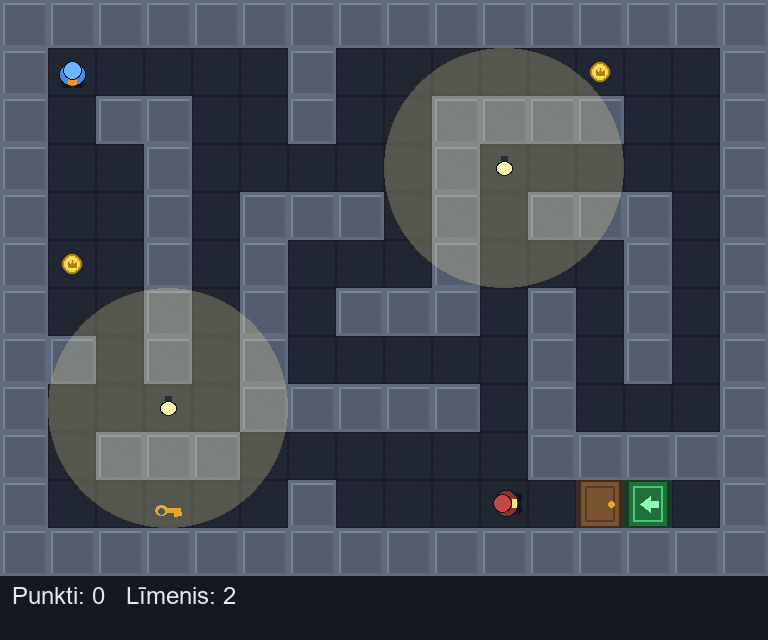
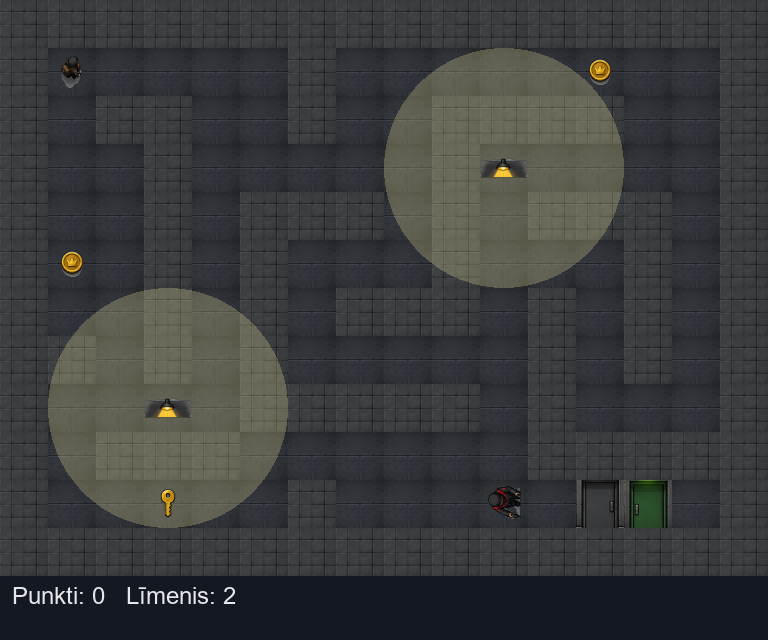
Īstās tekstūras no asset kolāžas: kurjers, sargi, monētas, atslēga, durvis, lampas, flīzes (cut_assets.py)

diff --git a/cut_assets.py b/cut_assets.py
@@ -1,0 +1,111 @@
+"""Izgriež tekstūras no asset kolāžas un saglabā assets/ mapē.
+
+Kolāža = liela bilde ar daudziem sprites uz pelēka fona.
+Skripts atrod katru objektu pēc tā atrašanās vietas (x, y),
+noņem fonu (padara caurspīdīgu) un saglabā atsevišķus PNG.
+
+Palaišana:  python cut_assets.py
+"""
+
+import numpy as np
+from PIL import Image
+from scipy import ndimage
+
+COLLAGE = r"C:\Users\rober\Downloads\Топдаун-ассеты для стелс-игры Shadow Courier.png"
+BG_COLOR = np.array([148, 148, 150])  # kolāžas pelēkais fons
+THRESHOLD = 40  # cik ļoti pikselim jāatšķiras no fona, lai skaitītos objekts
+
+# --- Izgriežamie objekti ---
+# (nosaukums, x, y, platums, augstums, režīms)
+# Koordinātes no segments_preview.png analīzes.
+# Režīmi:
+#   "center" — caurspīdīgs fons, objekts centrēts kvadrātā
+#   "top:X"  — vispirms nogriež apakšējo daļu (atstāj augšējo X daļu)
+#   "tile"   — kvadrātveida izgriezums bez caurspīdīguma (grīdai/sienām)
+CUTS = [
+    ("player", 1155, 55, 79, 118, "center"),     # kurjers ar mugursomu
+    ("guard", 1138, 244, 94, 193, "top:0.45"),   # sargs (bez luktura konusa)
+    ("coin", 829, 414, 78, 92, "center"),        # zelta monēta ar kroni
+    ("key", 708, 423, 50, 100, "center"),        # atslēga
+    ("door", 24, 366, 103, 132, "tile"),         # metāla durvis
+    ("exit", 278, 355, 101, 143, "tile"),        # zaļās izejas durvis
+    ("lamp_on", 21, 604, 134, 164, "top:0.32"),  # karājošā kupola lampa
+    ("floor", 23, 61, 112, 114, "tile"),         # tumša grīdas flīze
+    ("wall", 263, 184, 112, 113, "tile"),        # gaiša sienu flīze
+]
+
+
+def find_component(labels: np.ndarray, tx: int, ty: int) -> np.ndarray:
+    """Atrod maskas komponenti, kurā atrodas punkts (tx, ty)."""
+    # Punkts var trāpīt uz cauruma objektā — meklējam tuvumā
+    for radius in (0, 10, 25, 50):
+        y0, y1 = max(0, ty - radius), ty + radius + 1
+        x0, x1 = max(0, tx - radius), tx + radius + 1
+        found = labels[y0:y1, x0:x1]
+        nonzero = found[found > 0]
+        if len(nonzero) > 0:
+            # Biežākā komponente šajā apgabalā
+            comp_id = np.bincount(nonzero).argmax()
+            return labels == comp_id
+    raise ValueError(f"Komponente nav atrasta pie ({tx}, {ty})")
+
+
+def main() -> None:
+    img = Image.open(COLLAGE).convert("RGB")
+    a = np.array(img).astype(int)
+
+    # Maska: kuri pikseļi NAV fons
+    dist = np.abs(a - BG_COLOR).sum(axis=2)
+    mask = dist > THRESHOLD
+    labels, _ = ndimage.label(mask)
+
+    for name, x, y, w, h, mode in CUTS:
+        comp_mask = find_component(labels, x + w // 2, y + h // 2)
+        ys, xs = np.where(comp_mask)
+        y0, y1, x0, x1 = ys.min(), ys.max() + 1, xs.min(), xs.max() + 1
+
+        piece = np.array(img)[y0:y1, x0:x1].copy()
+        piece_mask = comp_mask[y0:y1, x0:x1]
+
+        if mode.startswith("top:"):
+            # Nogriežam apakšējo daļu (piem., luktura konusu)
+            keep = int(piece.shape[0] * float(mode.split(":")[1]))
+            piece = piece[:keep]
+            piece_mask = piece_mask[:keep]
+
+        if mode == "tile":
+            # Flīzes: kvadrātveida centra izgriezums bez caurspīdīguma
+            ph, pw = piece.shape[:2]
+            side = min(ph, pw) - 8
+            cy, cx = ph // 2, pw // 2
+            piece = piece[cy - side // 2:cy + side // 2, cx - side // 2:cx + side // 2]
+            result = Image.fromarray(piece).convert("RGB")
+        else:
+            # Mīkstas malas: masku nedaudz izpludinām
+            soft = ndimage.gaussian_filter(piece_mask.astype(float), 1.0)
+            alpha = np.clip(soft * 255 * 1.3, 0, 255).astype(np.uint8)
+            rgba = np.dstack([piece, alpha])
+            result = Image.fromarray(rgba, "RGBA")
+            # Ieliekam kvadrātveida kadrojumā ar objektu centrā
+            side = max(result.size)
+            canvas = Image.new("RGBA", (side, side), (0, 0, 0, 0))
+            canvas.paste(result, ((side - result.width) // 2,
+                                  (side - result.height) // 2), result)
+            result = canvas
+
+        result.save(f"assets/{name}.png")
+        print(f"assets/{name}.png  ({result.width}x{result.height})")
+
+    # Izslēgtā lampa = tā pati lampa, tikai patumšota
+    lamp = Image.open("assets/lamp_on.png").convert("RGBA")
+    r, g, b, alpha = lamp.split()
+    dark = Image.merge("RGBA", (r.point(lambda px: int(px * 0.35)),
+                                g.point(lambda px: int(px * 0.35)),
+                                b.point(lambda px: int(px * 0.35)),
+                                alpha))
+    dark.save("assets/lamp_off.png")
+    print("assets/lamp_off.png  (izslēgtā lampa)")
+
+
+if __name__ == "__main__":
+    main()

diff --git a/client/main.py b/client/main.py
@@ -44,18 +44,28 @@ SCREEN_GAME_OVER = "game_over"
 SCREEN_WON = "won"
 
 
-def load_sprites() -> dict[str, pygame.Surface | None]:
-    """Ielādē tekstūras no assets/ mapes.
+# Cik lielus sprites zīmēt spēlē (pikseļi)
+SPRITE_SIZES = {
+    "floor": gs.TILE_SIZE, "wall": gs.TILE_SIZE,
+    "door": gs.TILE_SIZE, "exit": gs.TILE_SIZE,
+    "lamp_on": gs.TILE_SIZE, "lamp_off": gs.TILE_SIZE,
+    "player": gs.PLAYER_SIZE, "guard": GUARD_SIZE,
+    "coin": 26, "key": 30,
+}
 
-    Ja kādas bildes nav (piem., aizmirsa palaist make_assets.py),
+
+def load_sprites() -> dict[str, pygame.Surface | None]:
+    """Ielādē tekstūras no assets/ mapes un samazina līdz spēles izmēram.
+
+    Ja kādas bildes nav (piem., aizmirsa palaist cut_assets.py),
     spēle nestrādā ar kļūdu — tā vietā zīmē parastos kvadrātus.
     """
     sprites = {}
-    for name in ("floor", "wall", "player", "guard", "coin", "key",
-                 "door", "exit", "lamp_on", "lamp_off"):
+    for name, size in SPRITE_SIZES.items():
         path = os.path.join("assets", name + ".png")
         if os.path.exists(path):
-            sprites[name] = pygame.image.load(path).convert_alpha()
+            img = pygame.image.load(path).convert_alpha()
+            sprites[name] = pygame.transform.smoothscale(img, (size, size))
         else:
             sprites[name] = None
     return sprites
@@ -214,19 +224,19 @@ def draw_world(window: pygame.Surface, state: GameState,
     draw_sprite(window, sprites["exit"], ex * t, ey * t, t, COLOR_EXIT)
     for col, row in level.coins:
         draw_sprite(window, sprites["coin"],
-                    col * t + (t - 20) // 2, row * t + (t - 20) // 2, 20, COLOR_COIN)
+                    col * t + 11, row * t + 11, 26, COLOR_COIN)
     if level.key_pos is not None:
         kx, ky = level.key_pos
-        draw_sprite(window, sprites["key"], kx * t + 10, ky * t + 16, 28, COLOR_KEY)
+        draw_sprite(window, sprites["key"], kx * t + 9, ky * t + 9, 30, COLOR_KEY)
     if level.door_pos is not None and not level.door_open:
         dx, dy = level.door_pos
         draw_sprite(window, sprites["door"], dx * t, dy * t, t, COLOR_DOOR)
 
-    # Lampas (deg = dzeltena, izslēgta = pelēka)
+    # Lampas (deg = gaiša, izslēgta = tumša)
     for (col, row), off_timer in level.lamps.items():
         lamp = sprites["lamp_on"] if off_timer <= 0 else sprites["lamp_off"]
         color = COLOR_LAMP_ON if off_timer <= 0 else COLOR_LAMP_OFF
-        draw_sprite(window, lamp, col * t + 12, row * t + 12, 24, color)
+        draw_sprite(window, lamp, col * t, row * t, t, color)
 
     # Sargi (pagriežas kustības virzienā)
     for guard in level.guards:
